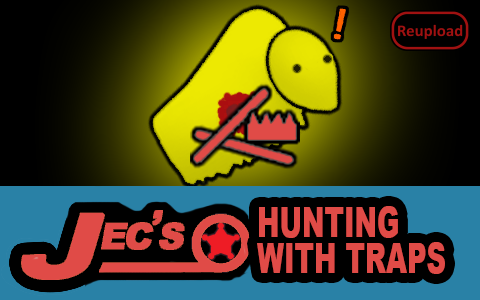
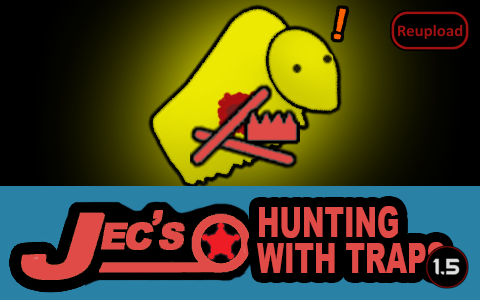
Mod updated for 1.5 and passed autotests

Changed region(s): [[0.875, 0.81, 1.0, 0.96]]

diff --git a/Source/JecsHuntingWithTraps/HarmonyPatches.cs b/Source/JecsHuntingWithTraps/HarmonyPatches.cs
@@ -5,12 +5,12 @@ using Verse;
 namespace JecsHuntingWithTraps;
 
 /*
- * 
+ *
  *  Harmony Classes
  *  ===============
  *  Harmony is a system developed by pardeike (aka Brrainz).
- *  It allows us to use pre/post method patches instead of using detours.
- * 
+ *  It allows us to use pre- / post-method patches instead of using detours.
+ *
  */
 [StaticConstructorOnStartup]
 internal static class HarmonyPatches
@@ -19,9 +19,9 @@ internal static class HarmonyPatches
     /*
      * Contains 1 Harmony patch.
      * ===================
-     * 
+     *
      * [POSTFIX] Building_Trap -> KnowsOfTrap
-     * 
+     *
      */
     static HarmonyPatches()
     {
@@ -60,43 +60,4 @@ internal static class HarmonyPatches
             __result = 0.95f;
         }
     }
-
-    //public static void SpringSub_PreFix(Building_TrapDamager __instance, Pawn p)
-    //{
-    //    if ((p?.RaceProps?.Animal ?? false) && (p?.Faction != Faction.OfPlayerSilentFail))
-    //    {
-    //        BodyPartHeight height = (Rand.Value >= 0.666f) ? BodyPartHeight.Middle : BodyPartHeight.Top;
-    //        int num = Mathf.RoundToInt(__instance.GetStatValue(StatDefOf.TrapMeleeDamage, true) * new FloatRange(6.0f, 8.0f).RandomInRange);
-    //        int randomInRange = new IntRange(1, 3).RandomInRange;
-    //        for (int i = 0; i < randomInRange; i++)
-    //        {
-    //            if (num <= 0)
-    //            {
-    //                break;
-    //            }
-    //            int num2 = Mathf.Max(1, Mathf.RoundToInt(Rand.Value * (float)num));
-    //            num -= num2;
-    //            DamageInfo dinfo = new DamageInfo(DamageDefOf.Stab, num2, -1f, __instance, null, null, DamageInfo.SourceCategory.ThingOrUnknown);
-    //            if (Rand.Value > 0.05f)
-    //            {
-    //                dinfo.SetHitPart(p?.health?.hediffSet?.GetNotMissingParts()?.FirstOrDefault(
-    //                x => (x?.def?.tags?.Contains("MovingLimbCore") ?? false) ||
-    //                     (x?.def?.tags?.Contains("MovingLimbSegment") ?? false)
-    //                ));
-    //            }
-    //            else
-    //            {
-    //                dinfo.SetHitPart(p?.health?.hediffSet?.GetNotMissingParts()?.FirstOrDefault(
-    //                x => (x?.def?.tags?.Contains("MovingLimbDigit") ?? false)
-    //                ));
-    //            }
-    //            if (dinfo.HitPart == null)
-    //            {
-    //                //Log.Message("Null");
-    //                dinfo.SetBodyRegion(height, BodyPartDepth.Outside);
-    //            }
-    //            p.TakeDamage(dinfo);
-    //        }
-    //    }
-    //}
 }

diff --git a/README.md b/README.md
@@ -27,11 +27,13 @@ ShotgunFace, Fredric Sundberg, Dan Winn, Toss Antilles, Sarah Banks, Undead Jack
 
 -  See if the the error persists if you just have this mod and its requirements active.
 -  If not, try adding your other mods until it happens again.
--  Post your error-log using https://steamcommunity.com/workshop/filedetails/?id=818773962]HugsLib and command Ctrl+F12
+-  Post your error-log using https://steamcommunity.com/workshop/filedetails/?id=818773962]HugsLib or the standalone https://steamcommunity.com/sharedfiles/filedetails/?id=2873415404]Uploader and command Ctrl+F12
 -  For best support, please use the Discord-channel for error-reporting.
 -  Do not report errors by making a discussion-thread, I get no notification of that.
 -  If you have the solution for a problem, please post it to the GitHub repository.
+-  Use https://github.com/RimSort/RimSort/releases/latest]RimSort to sort your mods
 
 
 
+https://steamcommunity.com/sharedfiles/filedetails/changelog/2404759951]![Image](https://img.shields.io/github/v/release/emipa606/JecsHuntingWithTraps?label=latest%20version&style=plastic&color=9f1111&labelColor=black)
 
